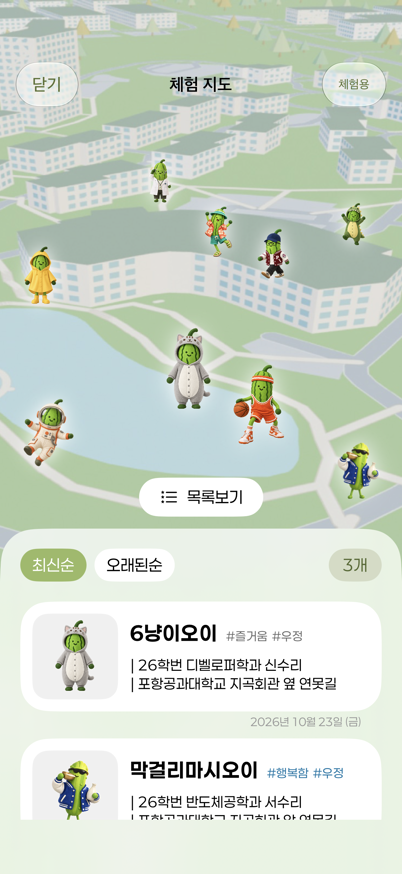
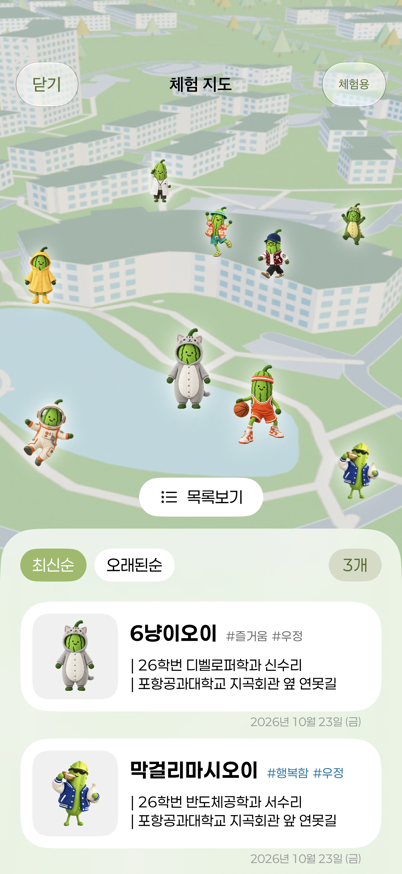
[fix] 체험 목록 스크롤을 하단까지 확장

Changed region(s): [[0.3284, 0.9268, 0.9552, 0.9886], [0.0597, 0.9268, 0.209, 0.9886]]

diff --git a/apps/ios/OiDonation/Shared/Components/OiSampleMapView.swift b/apps/ios/OiDonation/Shared/Components/OiSampleMapView.swift
@@ -35,17 +35,20 @@ struct OiSampleMapView: View {
                             .background(.white, in: Capsule())
                     }.buttonStyle(.plain).accessibilityIdentifier("sample.toggleList")
                     }
-                    list
-                        .frame(height: isExpanded || typeSize.isAccessibilitySize
+                    list(bottomInset: geometry.safeAreaInsets.bottom)
+                        .frame(height: (isExpanded || typeSize.isAccessibilitySize
                                ? max(200, geometry.size.height - 64) : geometry.size.height * 0.43)
+                               + geometry.safeAreaInsets.bottom)
                 }
+                // Extend the list viewport, leaving the map's safe-area layout unchanged.
+                .ignoresSafeArea(.container, edges: .bottom)
             }
         }
         .toolbarBackground(.hidden, for: .navigationBar)
         .foregroundStyle(.black)
     }
 
-    private var list: some View {
+    private func list(bottomInset: CGFloat) -> some View {
         VStack(spacing: 20) {
             let headerLayout = typeSize.isAccessibilitySize ? AnyLayout(VStackLayout(alignment: .leading, spacing: 8))
                 : AnyLayout(HStackLayout(spacing: 8))
@@ -78,14 +81,12 @@ struct OiSampleMapView: View {
                             CampusStoryRow(story: story)
                         }.buttonStyle(.plain).accessibilityIdentifier("sample.row.\(story.id)")
                     }
-                }.padding(.bottom, 20)
+                }.padding(.bottom, bottomInset + 20)
             }.scrollIndicators(.hidden)
-        }.padding(20)
+        }.padding(.horizontal, 20).padding(.top, 20)
             .background {
-                // Extend only the panel background below the home indicator.
                 UnevenRoundedRectangle(topLeadingRadius: 35, topTrailingRadius: 35)
                     .fill(.regularMaterial)
-                    .ignoresSafeArea(.container, edges: .bottom)
             }
     }
 

diff --git a/apps/ios/OiDonationTests/OiFigmaFidelityVisualTests.swift b/apps/ios/OiDonationTests/OiFigmaFidelityVisualTests.swift
@@ -995,6 +995,15 @@ final class OiFigmaFidelityVisualTests: XCTestCase {
                 defaults: fixture.defaults, attach: true)
             try await capture(NavigationStack { OiSampleMapView(isExpanded: true).modifier(OiSampleNoticeModifier()) }, name: "sample-list", variant: variant,
                 defaults: fixture.defaults, attach: true)
+            for expanded in [false, true] {
+                let bottomList = NavigationStack {
+                    OiSampleMapView(isExpanded: expanded)
+                        .defaultScrollAnchor(.bottom, for: .initialOffset)
+                        .modifier(OiSampleNoticeModifier())
+                }
+                try await capture(bottomList, name: "sample-\(expanded ? "list" : "map")-bottom", variant: variant,
+                    defaults: fixture.defaults, attach: true)
+            }
             let story = CampusStoryExamples.stories[0]
             try await capture(NavigationStack { OiSampleSummaryView(story: story, onCollect: {}).modifier(OiSampleNoticeModifier()) },
                 name: "sample-summary", variant: variant, defaults: fixture.defaults, attach: true)

diff --git a/docs/verification/sample-figma-214.md b/docs/verification/sample-figma-214.md
@@ -45,10 +45,14 @@
 
 대표 캡처: [지도](sample-214/sample-map-402x874.png), [목록](sample-214/sample-list-402x874.png), [요약](sample-214/sample-summary-402x874.png), [상세](sample-214/sample-detail-402x874.png), [AR 윤곽과 수집](sample-214/sample-ar-slots-1-402x874.png).
 
-### 2026-11-07 하단 안전 영역 후속 수정
+### 2026-11-07 하단 안전 영역과 목록 스크롤
 
-체험 지도 목록과 이야기 상세의 하단 버튼 배경이 안전 영역 위에서 끝나 지도·본문이 홈 인디케이터 아래로 그대로 보이던 틈을 수정했다. 둥근 Material 배경에만 하단 컨테이너 안전 영역 확장을 적용한다. 버튼과 스크롤 콘텐츠의 배치, 위쪽 둥근 모서리, 목록 펼침 동작은 유지한다. 본 앱과 App Clip이 같은 뷰를 사용한다.
+상세 화면의 하단 버튼 배경은 홈 인디케이터 아래까지 이어진다. 체험 지도 목록은 배경뿐 아니라 스크롤 영역도 화면 끝까지 확장한다. 안전 영역과 마지막 항목 사이의 여백은 스크롤 내용 안에 두어, 스크롤 중 카드를 덮는 고정 띠가 생기지 않게 한다. 확장은 목록 컨테이너에만 적용하여 지도 배경과 위쪽 둥근 모서리, 접힘/펼침 위치를 유지한다. 본 앱과 App Clip이 같은 뷰를 사용한다.
 
-`OiFlowChecks`의 `testSampleExperienceCaptures`를 재실행하여 24개 캡처를 생성했다. 375×667 / 402×874 / 440×956 / 최대 Dynamic Type에서 목록과 상세 하단의 배경이 화면 끝까지 이어지는지 확인했다. 기존 402×874 지도·목록·상세 캡처를 수정 후 결과로 갱신했다. 새 테스트를 추가하거나 개인 서명 설정을 변경하지 않았다.
+- `OiFlowChecks/testSampleExperienceCaptures` 통과. 접힘/펼침의 최초·최하단 상태를 포함하여 375×667 / 402×874 / 440×956 / 최대 Dynamic Type에서 총 32개 캡처를 확인했다.
+- 목록 최하단 캡처는 초기 스크롤 위치만 변경한다. 짧은 목록의 위쪽 정렬은 실제 앱처럼 유지한다.
+- 임시 UIKit 진단으로 402×874 화면의 목록 스크롤 끝이 y=874임을 확인했다. 표시 높이 272.33pt, 내용 높이 455pt, 최하단 offset 182.67pt이며 스크롤·팬 제스처가 활성화되어 있다. 진단 로그 코드는 제거했다.
+- Device Hub에서 최종 앱의 목록 펼침과 마지막 스토리 선택·요약 진입을 확인했다. 마우스 드래그 전달은 일관되지 않아 최하단 도달은 캡처와 스크롤 크기·offset 진단으로 검증했다.
+- 본 앱·내장 App Clip의 iPhone Debug 빌드 및 서명 검증 통과. 기존 수동 서명을 보존하고 Jun iPhone(iOS 26.7.2)에 최종 수정 앱을 설치·실행했다. 실기기 App Clip 실행과 실제 AR 플레이, App Store 업로드는 이번 검증에 포함하지 않는다.
 
-후속 실기기 확인: 기존 수동 서명으로 본 앱·내장 App Clip의 iPhone Debug 빌드와 서명 검증을 통과했다. Jun iPhone(iOS 26.7.2)에 수정 앱을 업데이트 설치하고 실행했다. 이 기기의 App Clip 실행과 실제 AR 플레이는 이번 하단 배경 수정의 검증에 포함하지 않았다.
+[접힌 목록 최하단](sample-214/sample-map-bottom-402x874.png) · [펼친 목록 최하단](sample-214/sample-list-bottom-402x874.png)
